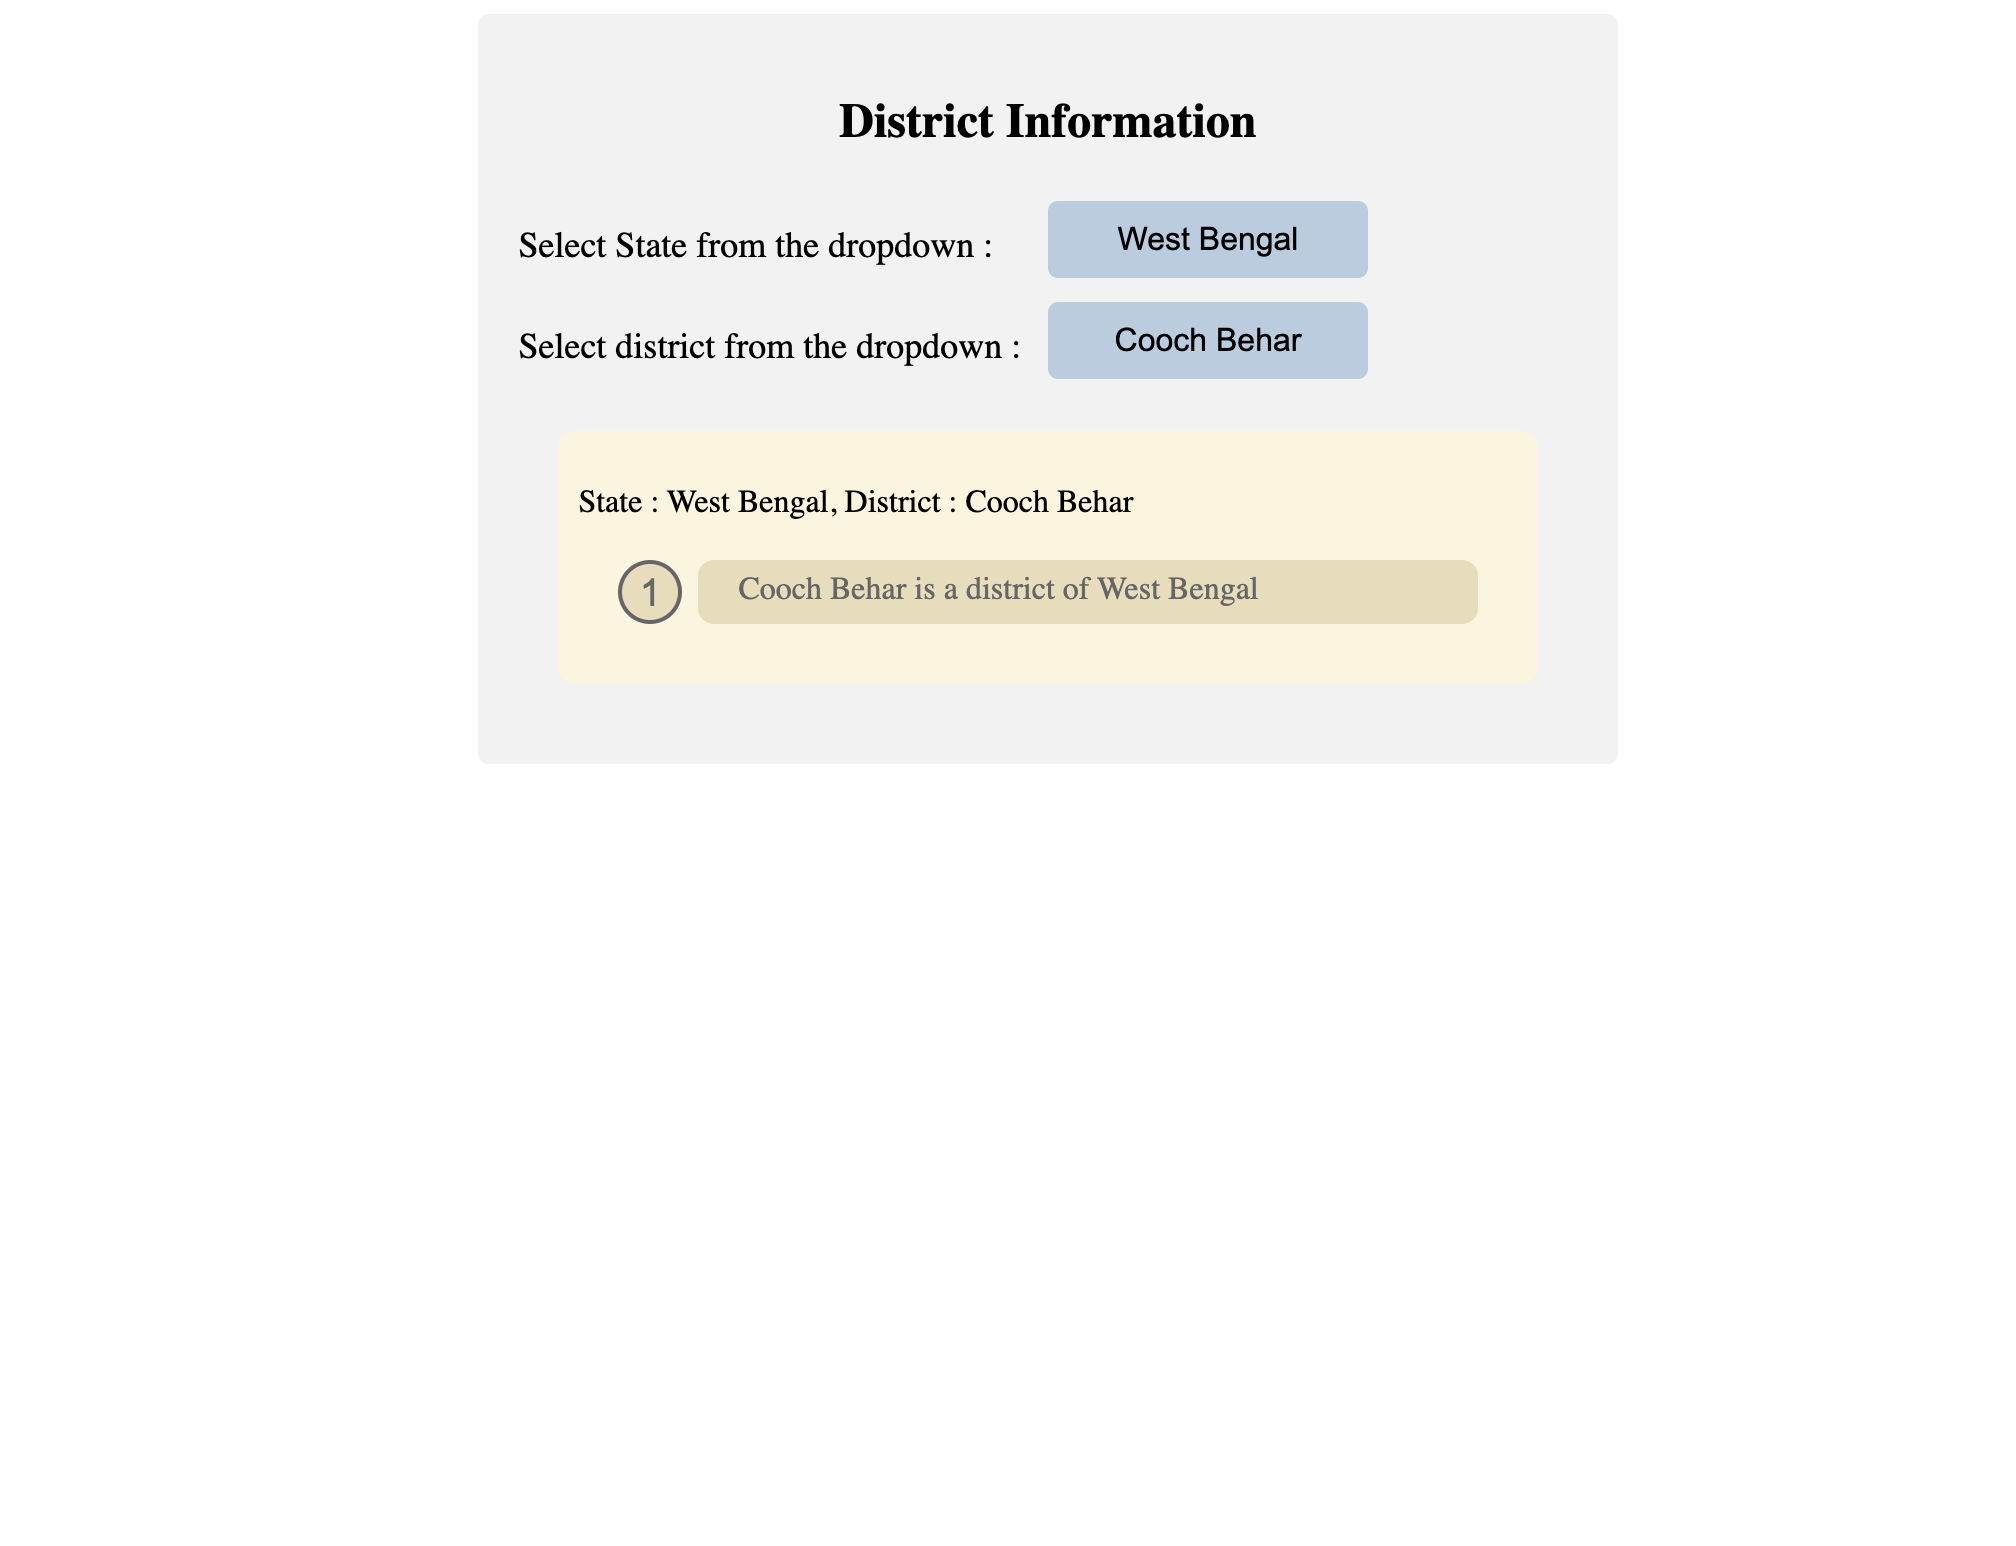
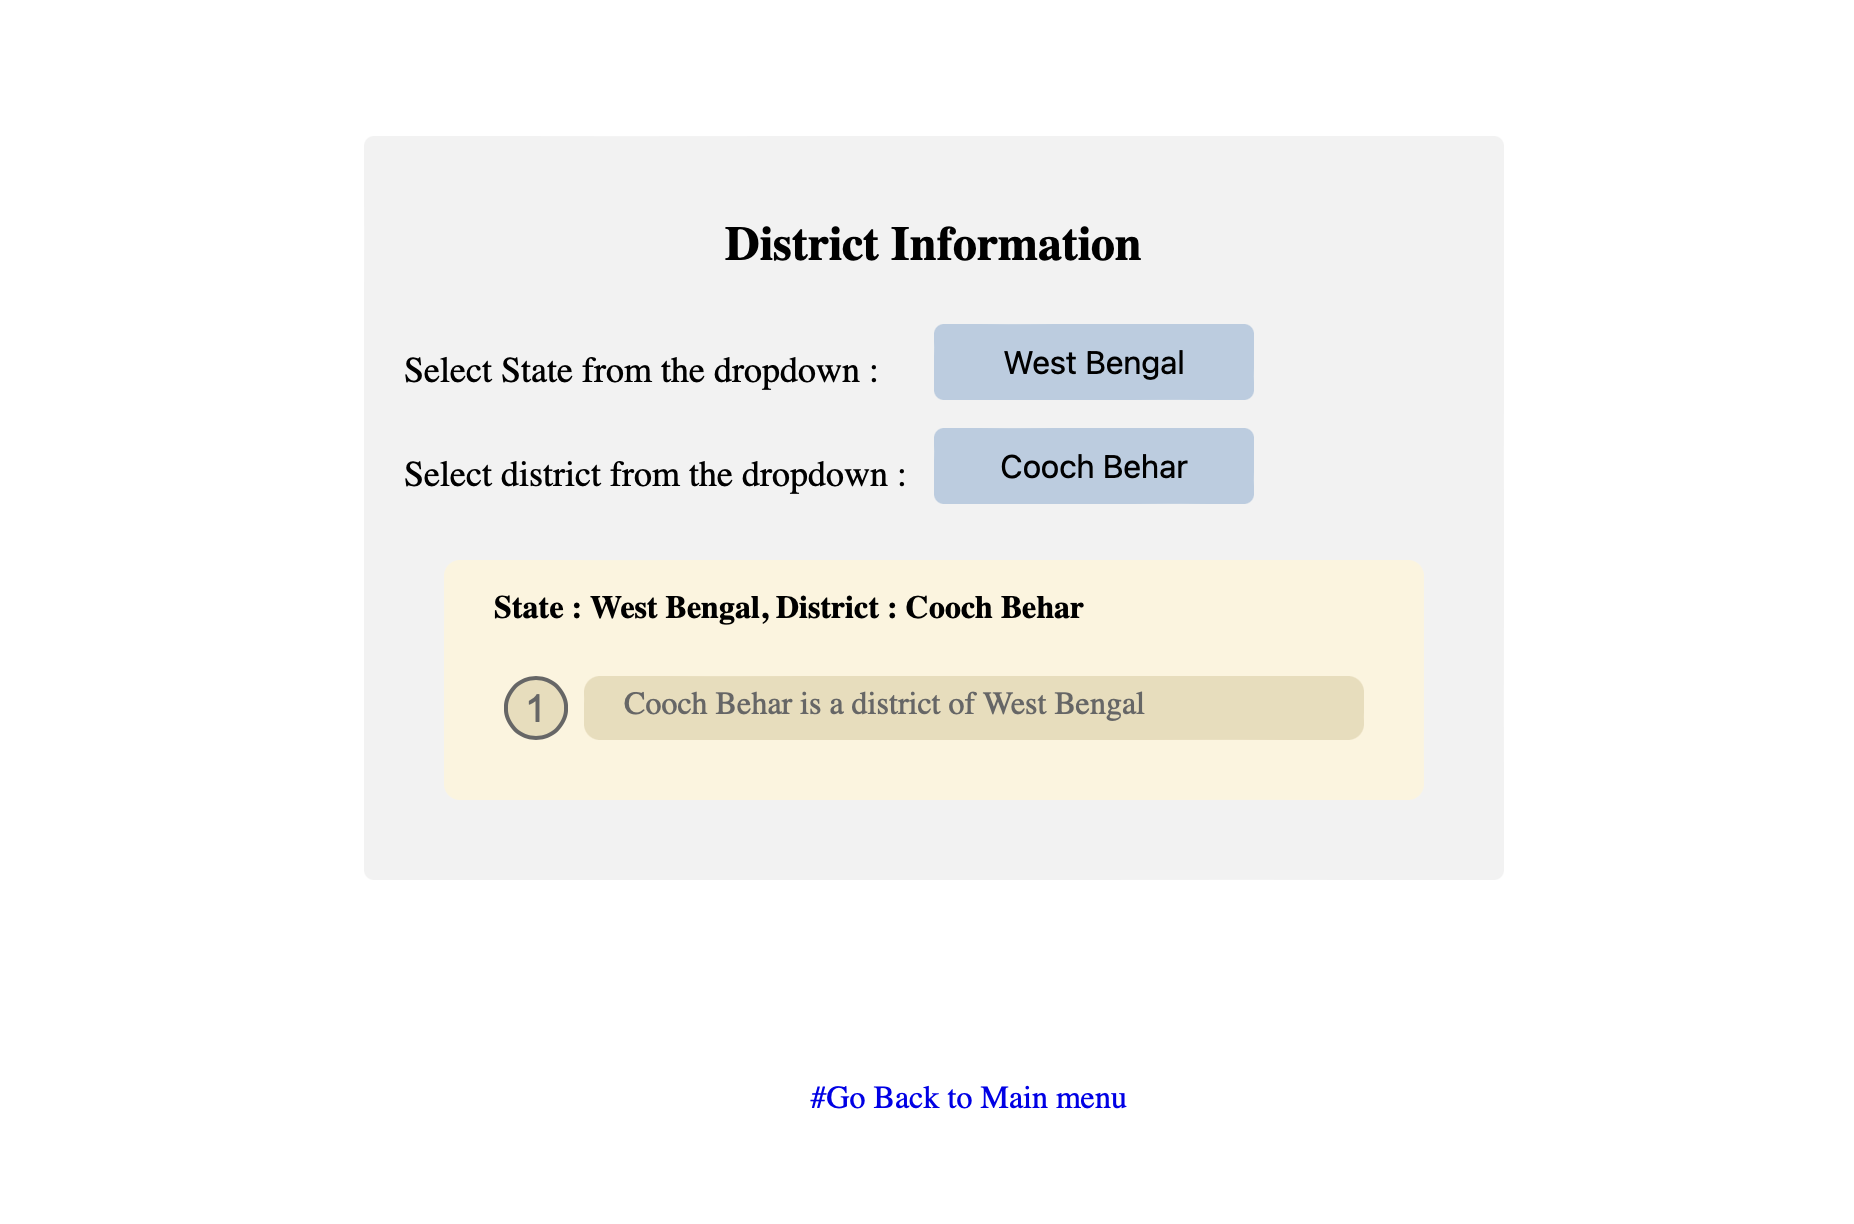
Modified Question 23

diff --git a/CSS/q23.css b/CSS/q23.css
@@ -1,3 +1,52 @@
+* {
+    box-sizing: border-box;
+}
+
+
+label {
+    padding: 12px 12px 12px 0;
+    display: inline-block;
+}
+
+
+.container {
+    border-radius: 5px;
+    background-color: #f2f2f2;
+    padding: 20px;
+    width: 40%;
+    margin: 100px auto;
+}
+
+.col-25 {
+    float: left;
+    width: 50%;
+    margin-top: 6px;
+}
+
+.col-75 {
+    float: left;
+    width: 50%;
+    overflow: visible;
+    margin-top: 6px;
+}
+
+/* Clear floats after the columns */
+.row:after {
+    content: "";
+    display: table;
+    clear: both;
+}
+
+/* Responsive layout - when the screen is less than 600px wide, make the two columns stack on top of each other instead of next to each other */
+@media screen and (max-width: 600px) {
+
+    .col-25,
+    .col-75 {
+        width: 100%;
+        margin-top: 0;
+    }
+}
+
 .dropbtn {
     background-color: rgba(184, 205, 225, 1);
     color: black;
@@ -7,13 +56,14 @@
     border: none;
     border-radius: 5px;
     cursor: pointer;
-  }
+}
 
 .dropbtn:hover,
 .dropbtn:focus {
-    
+
     background-color: rgba(47, 138, 199, 0.712);
 }
+
 .dropdown {
     position: relative;
     display: inline-block;
@@ -26,14 +76,14 @@
     min-width: 160px;
     max-height: 450px;
     overflow: scroll;
-    box-shadow: 0px 8px 16px 0px rgba(0,0,0,0.2);
+    box-shadow: 0px 8px 16px 0px rgba(0, 0, 0, 0.2);
     z-index: 1;
     border-radius: 5px;
     margin: 5px 0 0 0;
-  }
+}
 
 
-  .dropdown-button{
+.dropdown-button {
     width: 147px;
     min-height: 30px;
     order: none;
@@ -47,11 +97,12 @@
     font-weight: 300;
     cursor: pointer;
     outline: inherit;
-  }
-  .dropdown-button:hover{
+}
+
+.dropdown-button:hover {
     cursor: pointer;
     background-color: rgba(47, 138, 199, 0.712);
-  }
+}
 
 .show {
     display: block;
@@ -65,6 +116,18 @@
     padding: 10px;
     margin: 20px;
     box-sizing: border-box;
+}
+
+#district-description.active::-webkit-scrollbar {
+    width: 10px;
+    background-color: rgb(235, 235, 235);
+    border-radius: 0 8px 8px 0;
+}
+
+#district-description.active::-webkit-scrollbar-thumb {
+    background-color: rgba(169, 165, 165, 0.250);
+    border-radius: 8px 8px 8px 8px;
+    width: 5px;
 }
 
 .info-wrapper {
@@ -99,56 +162,14 @@
     display: inline;
     color: rgb(102, 102, 102);
 }
-.info-list{
+
+.info-list {
     padding: 0;
 }
 
-
-
-
-* {
-    box-sizing: border-box;
-  }
-  
-  
-  label {
-    padding: 12px 12px 12px 0;
-    display: inline-block;
-  }
-  
-  
-  .container {
-    border-radius: 5px;
-    background-color: #f2f2f2;
-    padding: 20px;
-    width: 40%;
-    margin: auto;
-  }
-  
-  .col-25 {
-    float: left;
-    width: 50%;
-    margin-top: 6px;
-  }
-  
-  .col-75 {
-    float: left;
-    width: 50%;
-    overflow: visible;
-    margin-top: 6px;
-  }
-  
-  /* Clear floats after the columns */
-  .row:after {
-    content: "";
-    display: table;
-    clear: both;
-  }
-  
-  /* Responsive layout - when the screen is less than 600px wide, make the two columns stack on top of each other instead of next to each other */
-  @media screen and (max-width: 600px) {
-    .col-25, .col-75{
-      width: 100%;
-      margin-top: 0;
-    }
-  }
+.heading {
+    font-size: 22;
+    font-weight: 600;
+    margin: 0 10px 10px 10px;
+    padding: 5px;
+}

diff --git a/q23.html b/q23.html
@@ -38,7 +38,9 @@
 
     <div class="row">
       <div id="district-description"></div>
+    </div>
 </div>
+
 
 
 <script>
@@ -134,16 +136,6 @@
             district_description.removeChild(district_description.firstChild);
         district_description.classList.remove("active");
     
-        
-        // const district = document.querySelector("#district-selection-dropdown .button_dropdown").value;
-        // if (state == "Choose State" || district == "Choose District") {
-        //     const error = document.createElement("p");
-        //     error.setAttribute("class", "error");
-        //     error.innerHTML = "You must choose both State and District to see the Information...";
-        //     district_description.appendChild(error);
-        //     return;
-        // }
-    
         district_description.classList.add("active");
     
         const heading = document.createElement("p");
@@ -172,5 +164,7 @@
         district_description.appendChild(ul);
     }
     </script>
+    <div style="width: 100%; margin: auto; text-align: center; margin-top: 80px; padding-left: 35px;"><a href="."
+      style="text-decoration: none;">#Go Back to Main menu</a></div>
 </body>
 </html>
